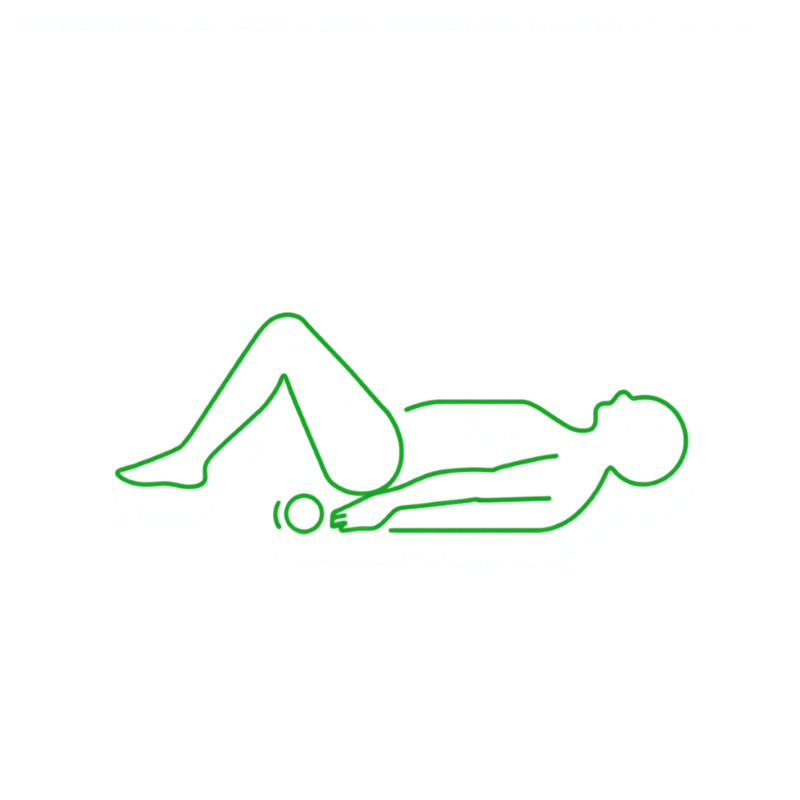
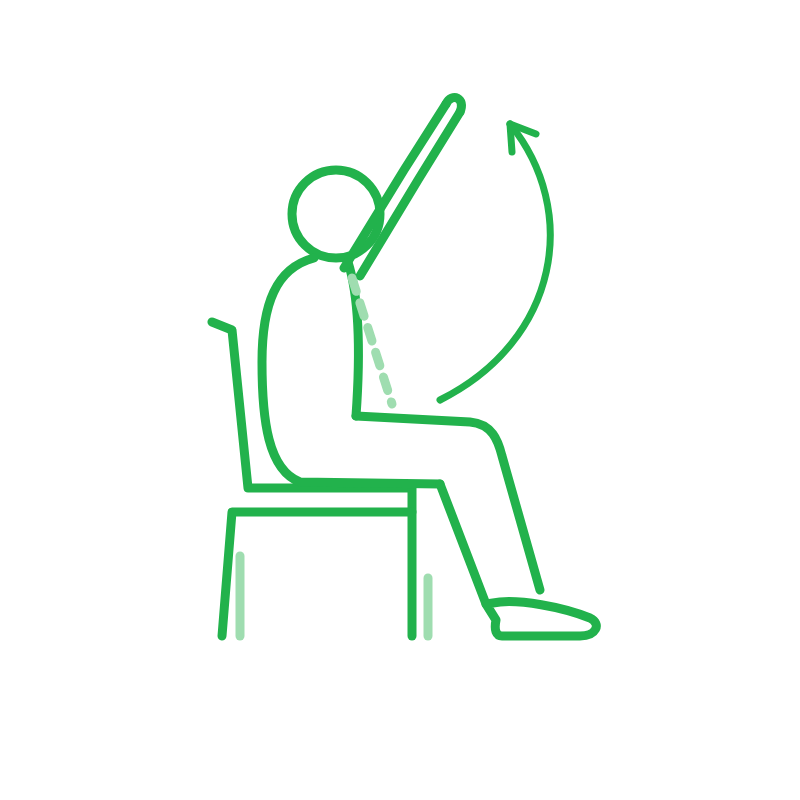
docs(デイ): 機能訓練を全部座位にそろえ、1組の時間を10〜20分に統一した
- R1 ロール運動（仰向け）→ 腕の上げ下ろし（バンザイ運動・座位）。説明・アイコンを差し替え
- S3 ボールはさみ運動を座位で行う形に。アイコンを座位の正面図に差し替え
- 旧アイコン（仰向け）は98_旧版/運動アイコン_仰向けへ
- 1組 約10〜12分 → 約10〜20分（002・005・006・012・旧版2つ）

diff --git a/04_デイサービス/005_現場配布用A4ファイリング資料.html b/04_デイサービス/005_現場配布用A4ファイリング資料.html
@@ -119,7 +119,7 @@ td.tag{font-weight:800; color:#78350f; white-space:nowrap}
   <div class="alert green">✅ 難しい制度や書類の話は後回しでOK。まずは「今日、利用者と何をするか」を掴みましょう。</div>
 
   <div class="card">
-    <h2>🔁 今日の流れ（午後に、5人以下のグループで1組 約10〜12分）</h2>
+    <h2>🔁 今日の流れ（午後に、5人以下のグループで1組 約10〜20分）</h2>
     <ol class="steps">
       <li><b>チームを確かめる</b>：チームは曜日ごとに決めておく。昼食中に、欠席・体調の悪い方だけ入れ替える。</li>
       <li><b>体調確認・声かけ</b>：「今日の調子はいかがですか」と声をかけ、痛み・気分・（必要なら）血圧を確認。痛みや体調不良があれば無理に行わない。</li>
@@ -152,17 +152,17 @@ td.tag{font-weight:800; color:#78350f; white-space:nowrap}
   <div class="card" style="border-left:4px solid var(--green)">
     <div style="display:flex;gap:16px;align-items:flex-start">
       <div class="exicon ex-icon-lg">
-        <img src="000_資料/運動アイコン/R1.png" alt="ロール運動のイラスト" loading="lazy">
+        <img src="000_資料/運動アイコン/R1.png" alt="腕の上げ下ろしのイラスト" loading="lazy">
       </div>
       <div style="flex:1">
-        <h2>R1　ロール運動　（めやす：10往復）</h2>
+        <h2>R1　腕の上げ下ろし（バンザイ運動）　（めやす：10回）</h2>
         <ul class="plain">
-          <li><b>ねらい</b>：股関節・膝・足首を同時に動かし、自然に近い形で関節をほぐす（本運動の前の準備）</li>
-          <li><b>準備するもの</b>：ロール（丸めたバスタオルや専用ロール）</li>
-          <li><b>やり方</b>：①仰向けに寝てもらう ②踵の下にロールを置く ③足の裏全体でロールを前後に転がす ④これを繰り返す</li>
-          <li><b>デモ・声かけのコツ</b>：看護師が自分の足で「足裏全体で押して転がす」を見せる。「かかとの下の棒を、足の裏でコロコロ転がしましょう」</li>
-          <li><b>注意</b>：股関節の人工関節術後の方は屈曲角度により避ける。足が左右にブレる場合は「まっすぐ前後だけ」と手を添えて誘導</li>
-          <li><b>レベル調整</b>：踵の位置を遠くにすると可動域が広がる</li>
+          <li><b>ねらい</b>：肩・背中・胸まわりをほぐし、本運動の前に体を温める（準備）</li>
+          <li><b>準備するもの</b>：特になし（イス）</li>
+          <li><b>やり方</b>：①イスに深く座り背すじを伸ばす ②両腕を前からゆっくり頭の上まで上げる ③ゆっくり下ろす ④これを繰り返す</li>
+          <li><b>デモ・声かけのコツ</b>：看護師が座って見せる。「腕を前から、ゆっくりバンザイ。下ろすときもゆっくり」。上げるときに息を吸い、下ろすときに吐く</li>
+          <li><b>注意</b>：肩に痛みがある方は、痛くない高さまで（肩の高さまででよい）。片側だけでもよい。腰が反らないよう背もたれに背中をつける</li>
+          <li><b>レベル調整</b>：上がる方は頭の上で3秒止める</li>
         </ul>
       </div>
     </div>
@@ -228,7 +228,7 @@ td.tag{font-weight:800; color:#78350f; white-space:nowrap}
     </div>
     <div class="exbody">
       <span class="exname">S3　ボールはさみ運動</span><span class="exreps">2〜3秒×5回</span>
-      <div class="exline"><span class="tag2 do">やり方</span>仰向けで膝を立て、膝の間にボールをはさみ、潰すように2〜3秒保持。</div>
+      <div class="exline"><span class="tag2 do">やり方</span>イスに深く座り、膝の間にボールをはさみ、潰すように2〜3秒保持。</div>
       <div class="exline"><span class="tag2 tip">コツ</span>「息を吐きながら、内ももでギューっと2〜3秒」</div>
       <div class="exline"><span class="tag2 warn">注意</span>腹圧性失禁の予防・改善にも。息を止めないよう声かけ</div>
     </div>
@@ -328,20 +328,20 @@ td.tag{font-weight:800; color:#78350f; white-space:nowrap}
 <div class="a4page">
   <div class="pg-head"><div class="pg-icon">🔄</div><div><h1>日替わりローテーション表</h1><p>3区分から1つずつ＝計3種を、パターン①→⑩の順に</p></div></div>
 
-  <div class="alert amber">パターン①→⑩を順に回すと、毎回ちがう組み合わせになり飽きずに続けられます（2週間で一巡）。利用者の状態に合わせて種目・回数・レベルは調整してください。1組 約10〜12分（各運動60〜90秒×2セット×3種）。</div>
+  <div class="alert amber">パターン①→⑩を順に回すと、毎回ちがう組み合わせになり飽きずに続けられます（2週間で一巡）。利用者の状態に合わせて種目・回数・レベルは調整してください。1組 約10〜20分（各運動60〜90秒×2セット×3種）。</div>
 
   <table>
     <thead><tr><th class="pn">パターン</th><th>① 可動域（緑）</th><th>② 筋力（青）</th><th>③ 転倒予防（赤）</th></tr></thead>
     <tbody>
-      <tr><td class="pn">1</td><td>R1 ロール運動</td><td>S1 座位 脚の横上げ運動</td><td>F1 タオルギャザー</td></tr>
+      <tr><td class="pn">1</td><td>R1 腕の上げ下ろし</td><td>S1 座位 脚の横上げ運動</td><td>F1 タオルギャザー</td></tr>
       <tr><td class="pn">2</td><td>R2 足すり運動</td><td>S2 座位 膝の開閉運動</td><td>F2 ボール踏み</td></tr>
-      <tr><td class="pn">3</td><td>R1 ロール運動</td><td>S3 ボールはさみ運動</td><td>F3 棒の上で板を動かす</td></tr>
+      <tr><td class="pn">3</td><td>R1 腕の上げ下ろし</td><td>S3 ボールはさみ運動</td><td>F3 棒の上で板を動かす</td></tr>
       <tr><td class="pn">4</td><td>R2 足すり運動</td><td>S4 座位 かかと上げ運動</td><td>F4 座位 膝伸ばし運動</td></tr>
-      <tr><td class="pn">5</td><td>R1 ロール運動</td><td>S5 座位ステップ運動（足踏み）</td><td>F1 タオルギャザー</td></tr>
+      <tr><td class="pn">5</td><td>R1 腕の上げ下ろし</td><td>S5 座位ステップ運動（足踏み）</td><td>F1 タオルギャザー</td></tr>
       <tr><td class="pn">6</td><td>R2 足すり運動</td><td>S1 座位 脚の横上げ運動</td><td>F2 ボール踏み</td></tr>
-      <tr><td class="pn">7</td><td>R1 ロール運動</td><td>S2 座位 膝の開閉運動</td><td>F3 棒の上で板を動かす</td></tr>
+      <tr><td class="pn">7</td><td>R1 腕の上げ下ろし</td><td>S2 座位 膝の開閉運動</td><td>F3 棒の上で板を動かす</td></tr>
       <tr><td class="pn">8</td><td>R2 足すり運動</td><td>S3 ボールはさみ運動</td><td>F4 座位 膝伸ばし運動</td></tr>
-      <tr><td class="pn">9</td><td>R1 ロール運動</td><td>S4 座位 かかと上げ運動</td><td>F1 タオルギャザー</td></tr>
+      <tr><td class="pn">9</td><td>R1 腕の上げ下ろし</td><td>S4 座位 かかと上げ運動</td><td>F1 タオルギャザー</td></tr>
       <tr><td class="pn">10</td><td>R2 足すり運動</td><td>S5 座位ステップ運動（足踏み）</td><td>F2 ボール踏み</td></tr>
     </tbody>
   </table>

diff --git a/04_デイサービス/002_機能訓練マニュアル.html b/04_デイサービス/002_機能訓練マニュアル.html
@@ -282,8 +282,8 @@ tr:nth-child(even) td { background: var(--gray-lt); }
     <div class="alert green">✅ 難しい制度や書類の話は後回しでOKです。まずは「今日、利用者と何をするか」を掴みましょう。</div>
 
     <div class="card">
-      <h3>🔁 今日の流れ（午後に、5人以下のグループで1組 約10〜12分）</h3>
-      <p style="margin:0 0 8px">似た目標の方を5人以下のグループに集めて行う（1日5グループほど・全部で約1時間）。個別が必要な方は個別に行う。</p>
+      <h3>🔁 今日の流れ（午後に、5人以下のグループで1組 約10〜20分）</h3>
+      <p style="margin:0 0 8px">似た目標の方を5人以下のグループに集めて行う（13:00〜14:30の中で）。個別が必要な方は個別に行う。</p>
       <ol class="list-num">
         <li><strong>チームを確かめる</strong>：チームは曜日ごとに決めておく。昼食中に、欠席・体調の悪い方だけ入れ替える。</li>
         <li><strong>体調確認・声かけ</strong>：「今日の調子はいかがですか」と声をかけ、痛み・気分・（必要なら）血圧を確認。痛みや体調不良があれば無理に行わない。</li>
@@ -406,7 +406,7 @@ tr:nth-child(even) td { background: var(--gray-lt); }
         <div class="flow-arrow">↓</div>
         <div class="flow-step"><div class="flow-num">2</div><div class="flow-body">
           <div class="flow-name">グループで、今日のパターンの3種を実施</div>
-          <div class="flow-detail">計画書の訓練項目に沿って、「<a href="006_座位運動メニュー_かんたん版.html" style="color:var(--accent);font-weight:700">006かんたん版</a>」または「<a href="005_現場配布用A4ファイリング資料.html" style="color:var(--accent);font-weight:700">005現場配布資料</a>」を見せながら実施。各運動60〜90秒×2セット、1組 約10〜12分</div>
+          <div class="flow-detail">計画書の訓練項目に沿って、「<a href="006_座位運動メニュー_かんたん版.html" style="color:var(--accent);font-weight:700">006かんたん版</a>」または「<a href="005_現場配布用A4ファイリング資料.html" style="color:var(--accent);font-weight:700">005現場配布資料</a>」を見せながら実施。各運動60〜90秒×2セット、1組 約10〜20分</div>
         </div></div>
         <div class="flow-arrow">↓</div>
         <div class="flow-step"><div class="flow-num">3</div><div class="flow-body">
@@ -554,7 +554,7 @@ tr:nth-child(even) td { background: var(--gray-lt); }
   <div class="page" id="page-practice">
     <div class="sec-head"><div class="sec-icon">💪</div><div><h2>運動メニュー（全11種・座位）</h2><p>「機能訓練表」を基にした日々の運動一覧　／　全種目イスに座ったまま安全に実施できます</p></div></div>
 
-    <div class="alert amber">🪑 全11種すべて座位で実施できるよう設計しています（立位運動なし）。3区分（可動域・筋力・転倒予防）から1つずつ＝計3種を行います。1組 約10〜12分（各運動60〜90秒×2セット×3種）。実施の流れは「初めての方はここ」ページ参照。</div>
+    <div class="alert amber">🪑 全11種すべて座位で実施できるよう設計しています（立位運動なし）。3区分（可動域・筋力・転倒予防）から1つずつ＝計3種を行います。1組 約10〜20分（各運動60〜90秒×2セット×3種）。実施の流れは「初めての方はここ」ページ参照。</div>
 
     <div class="card">
       <h3>🔄 日替わりローテーション表</h3>
@@ -563,15 +563,15 @@ tr:nth-child(even) td { background: var(--gray-lt); }
         <table>
           <thead><tr><th>パターン</th><th>① 可動域</th><th>② 筋力</th><th>③ 転倒予防</th></tr></thead>
           <tbody>
-            <tr><td><strong>1</strong></td><td>R1 ロール運動</td><td>S1 脚の横上げ</td><td>F1 タオルギャザー</td></tr>
+            <tr><td><strong>1</strong></td><td>R1 腕の上げ下ろし</td><td>S1 脚の横上げ</td><td>F1 タオルギャザー</td></tr>
             <tr><td><strong>2</strong></td><td>R2 足すり運動</td><td>S2 膝の開閉</td><td>F2 ボール踏み</td></tr>
-            <tr><td><strong>3</strong></td><td>R1 ロール運動</td><td>S3 ボールはさみ</td><td>F3 棒の上で板</td></tr>
+            <tr><td><strong>3</strong></td><td>R1 腕の上げ下ろし</td><td>S3 ボールはさみ</td><td>F3 棒の上で板</td></tr>
             <tr><td><strong>4</strong></td><td>R2 足すり運動</td><td>S4 かかと上げ</td><td>F4 膝伸ばし</td></tr>
-            <tr><td><strong>5</strong></td><td>R1 ロール運動</td><td>S5 座位ステップ</td><td>F1 タオルギャザー</td></tr>
+            <tr><td><strong>5</strong></td><td>R1 腕の上げ下ろし</td><td>S5 座位ステップ</td><td>F1 タオルギャザー</td></tr>
             <tr><td><strong>6</strong></td><td>R2 足すり運動</td><td>S1 脚の横上げ</td><td>F2 ボール踏み</td></tr>
-            <tr><td><strong>7</strong></td><td>R1 ロール運動</td><td>S2 膝の開閉</td><td>F3 棒の上で板</td></tr>
+            <tr><td><strong>7</strong></td><td>R1 腕の上げ下ろし</td><td>S2 膝の開閉</td><td>F3 棒の上で板</td></tr>
             <tr><td><strong>8</strong></td><td>R2 足すり運動</td><td>S3 ボールはさみ</td><td>F4 膝伸ばし</td></tr>
-            <tr><td><strong>9</strong></td><td>R1 ロール運動</td><td>S4 かかと上げ</td><td>F1 タオルギャザー</td></tr>
+            <tr><td><strong>9</strong></td><td>R1 腕の上げ下ろし</td><td>S4 かかと上げ</td><td>F1 タオルギャザー</td></tr>
             <tr><td><strong>10</strong></td><td>R2 足すり運動</td><td>S5 座位ステップ</td><td>F2 ボール踏み</td></tr>
           </tbody>
         </table>

diff --git a/04_デイサービス/006_座位運動メニュー_かんたん版.html b/04_デイサービス/006_座位運動メニュー_かんたん版.html
@@ -87,7 +87,7 @@ body{font-family:-apple-system,BlinkMacSystemFont,"Hiragino Sans","Noto Sans JP"
     <div class="em">🔰</div>
     <div>
       <h1>座位運動メニュー　かんたん版</h1>
-      <p>全11種、イスに座ったまま（一部は仰向けで）安全にできる運動です。むずかしく考えず、まずはこの1枚から。</p>
+      <p>全11種、すべてイスに座ったまま安全にできる運動です。むずかしく考えず、まずはこの1枚から。</p>
     </div>
   </div>
 
@@ -96,7 +96,7 @@ body{font-family:-apple-system,BlinkMacSystemFont,"Hiragino Sans","Noto Sans JP"
       <b>☀ 午後　13:00〜14:30ごろ</b>
       <span>「午後の作業」〜「テレビ体操」の時間帯に、5人以下のグループで実施</span>
     </div>
-    <div class="when-note">1組<b>約10〜12分</b>、1日5グループほど。1日のタイムスケジュール全体は<b>000_デイサービス業務マニュアル.html</b>を参照。</div>
+    <div class="when-note">1組<b>約10〜20分</b>、13:00〜14:30の中で。1日のタイムスケジュール全体は<b>000_デイサービス業務マニュアル.html</b>を参照。</div>
   </div>
 
   <div class="howto">
@@ -109,10 +109,10 @@ body{font-family:-apple-system,BlinkMacSystemFont,"Hiragino Sans","Noto Sans JP"
     <div class="sec-head"><div class="dot" style="background:var(--green)"></div><h2>① 可動域運動（準備運動）</h2><span class="cnt">2種</span></div>
     <div class="grid grid-2">
       <div class="g-card c-green">
-        <div class="ic"><img src="000_資料/運動アイコン/R1.png" alt="ロール運動"></div>
-        <div class="nm">R1　ロール運動</div>
-        <span class="rep">10往復</span>
-        <div class="how">仰向けで、かかとの下のロールを足でコロコロ転がす</div>
+        <div class="ic"><img src="000_資料/運動アイコン/R1.png" alt="腕の上げ下ろし"></div>
+        <div class="nm">R1　腕の上げ下ろし</div>
+        <span class="rep">10回</span>
+        <div class="how">座ったまま、両腕を前からゆっくり頭の上まで上げて下ろす</div>
       </div>
       <div class="g-card c-green">
         <div class="ic"><img src="000_資料/運動アイコン/R2.png" alt="足すり運動"></div>
@@ -142,7 +142,7 @@ body{font-family:-apple-system,BlinkMacSystemFont,"Hiragino Sans","Noto Sans JP"
         <div class="ic"><img src="000_資料/運動アイコン/S3.png" alt="ボールはさみ運動"></div>
         <div class="nm">S3　ボールはさみ運動</div>
         <span class="rep">5回</span>
-        <div class="how">仰向けで膝の間のボールを2〜3秒ぎゅっと</div>
+        <div class="how">座ったまま、膝の間のボールを2〜3秒ぎゅっと</div>
       </div>
       <div class="g-card c-blue">
         <div class="ic"><img src="000_資料/運動アイコン/S4.png" alt="座位 かかと上げ運動"></div>

diff --git a/04_デイサービス/機能訓練_看護師用マニュアル.html b/04_デイサービス/機能訓練_看護師用マニュアル.html
@@ -43,12 +43,12 @@ ul.rec{margin:4px 0 0 18px;font-size:.9rem}
 <div class="sec">1. 目的・このマニュアルのねらい</div>
 <div class="card aim">
  歩行の安定・転倒予防・下肢筋力の維持を目的に、<b>短時間</b>の機能訓練を日々の中で行います。<br>
- 午後に、似た目標の方を<b>5人以下のグループに集めて、1組 約10〜12分</b>行います（1日5グループほど・全部で約1時間）。<br>
+ 午後に、似た目標の方を<b>5人以下のグループに集めて、1組 約10〜20分</b>行います（13:00〜14:30の中で）。<br>
  このマニュアルは、看護師が<b>①流れを回せる ②各運動を利用者にお手本として見せられる（デモできる）</b>ことを目標にしています。運動は「機能訓練表」の3区分・全11種を用います。<br>
  <b style="color:#c62828">全11種すべて、イスに座ったまま安全に実施できるよう設計しています（立位運動なし）。</b>
 </div>
 
-<div class="sec">2. 実施の流れ（1グループ 約10〜12分）</div>
+<div class="sec">2. 実施の流れ（1グループ 約10〜20分）</div>
 <div class="step"><div class="sn">0</div><div class="sc"><b>チームを確かめる</b><div>チームは曜日ごとに決めておく。昼食中に、欠席・体調の悪い方だけ入れ替える。</div></div></div><div class="step"><div class="sn">1</div><div class="sc"><b>体調確認・声かけ</b><div>「今日の調子はいかがですか」と声をかけ、痛み・気分・（必要なら）血圧を確認。痛みや体調不良があれば無理に行わない。</div></div></div><div class="step"><div class="sn">2</div><div class="sc"><b>今日の3種を見せる</b><div>日替わり表の今日のパターン（①→⑩の順）を見せ、「今日はこれでいいですか？」と聞く。替えたい声があれば、その区分だけ皆で選び直す。</div></div></div><div class="step"><div class="sn">3</div><div class="sc"><b>看護師がお手本（デモ）</b><div>まず看護師が<b>実際にやって見せる</b>。カタログの「デモのコツ・声かけ例」を使う。</div></div></div><div class="step"><div class="sn">4</div><div class="sc"><b>一緒に実施</b><div>各運動 <b>60〜90秒を2セット</b>（間に30秒ほど休む）。回数・レベルは1人ずつ合わせる。</div></div></div><div class="step"><div class="sn">5</div><div class="sc"><b>称賛・記録</b><div>「よくできました」と称賛。記録は全グループが終わってから、007に1人1枚で書く。</div></div></div>
 
 <div class="sec">3. 訓練項目を選ぶのは計画書を作るとき</div>

diff --git a/04_デイサービス/012_個別機能訓練計画書.html b/04_デイサービス/012_個別機能訓練計画書.html
@@ -90,7 +90,7 @@ td > .box:first-child { margin-left: 0; }
   <tr class="std"><td><span class="ck"></span>立ち座りや歩行を支える脚の筋力を保つために、筋力運動（S1〜S5）をする</td><td>反動を使わず、ゆっくり</td><td class="c">約3分/回</td></tr>
   <tr class="std"><td><span class="ck"></span>つまずき・転倒を防ぐために、転倒予防運動（F1〜F4）をする</td><td>疲れが残れば回数を減らす</td><td class="c">約3分/回</td></tr>
   <tr><td><span class="box"></span>その他（　　　　　　　　　　　　　）</td><td></td><td class="c">週　回</td><td class="c">　分/回</td></tr>
-  <tr><td colspan="5" class="note">1回の所要時間：3種で<b>約10〜12分</b>（各60〜90秒×2セット＋体調確認・お手本）　実施の方法：<span class="box"></span>5人以下のグループ <span class="box"></span>個別</td></tr>
+  <tr><td colspan="5" class="note">1回の所要時間：3種で<b>約10〜20分</b>（各60〜90秒×2セット＋体調確認・お手本）　実施の方法：<span class="box"></span>5人以下のグループ <span class="box"></span>個別</td></tr>
 </table>
 
 <table>

diff --git a/04_デイサービス/機能訓練メニュー_日替わり3種.html b/04_デイサービス/機能訓練メニュー_日替わり3種.html
@@ -38,7 +38,7 @@ tr:nth-child(even) td{background:#f8fafc}
 
 <div class="howto">
  <b>使い方</b>：3つの区分（<span style="color:#2e7d32;font-weight:700">可動域</span>・<span style="color:#1565c0;font-weight:700">筋力</span>・<span style="color:#c62828;font-weight:700">転倒予防</span>）から<b>1つずつ＝計3種</b>を行います。
- <div class="big">1組 約10〜12分（各運動 60〜90秒 × 2セット × 3種）</div>
+ <div class="big">1組 約10〜20分（各運動 60〜90秒 × 2セット × 3種）</div>
  5人以下のグループで、全員同じ3種を行います。パターン①→⑩を順に回すと、毎回ちがう組み合わせになり飽きずに続けられます（2週間で一巡）。利用者の状態に合わせて種目・回数・レベルは調整してください。<br>
  <b style="color:#c62828">全11種すべて、イスに座ったまま安全に実施できます（立位運動なし）。</b>
 </div>
